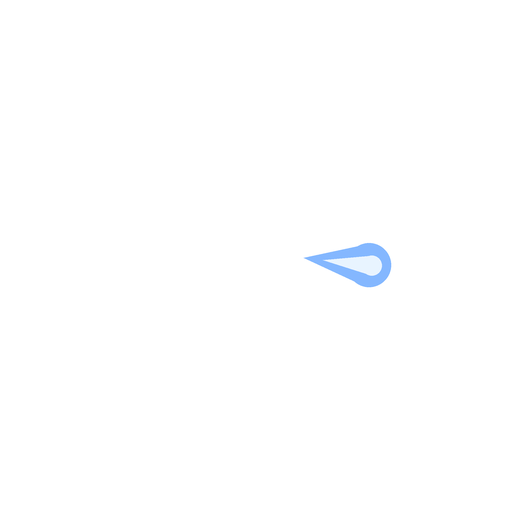
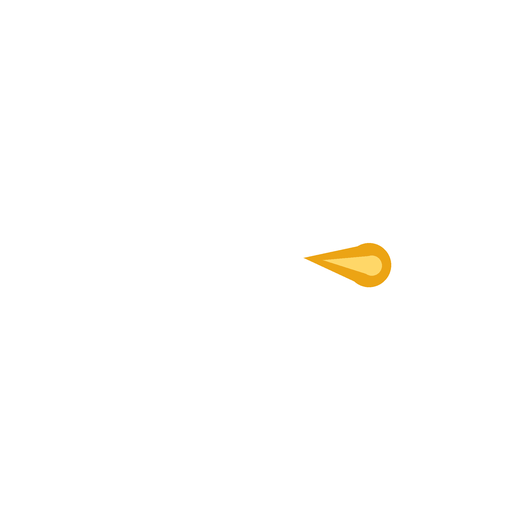
Standing Light smear in the guard's gold

Changed region(s): [[0.5938, 0.4688, 0.7812, 0.5625]]

diff --git a/design/models/sora/blender_workflow/make_smears.py b/design/models/sora/blender_workflow/make_smears.py
@@ -39,6 +39,10 @@ INNER = .30                               # the band's inner edge at its widest 
 STOP = .94                                # stop this far along the last segment, short of the blade
 OUTER_TONE = (122, 178, 255, 235)         # deeper outer band
 CORE_TONE = (232, 243, 255, 240)          # pale core
+# Guard-bash streak (Standing Light; Kvon: match the guard's colour): sampled from the guard in the approved drawing
+# (mid 234,156,0 / highlight 255,190,0), with a lighter gold core for the same two-tone look.
+GUARD_TONE = (234, 156, 0, 235)
+GUARD_CORE = (255, 214, 96, 240)
 
 
 def screen(p):
@@ -118,8 +122,8 @@ for i, fr in enumerate(track):
         pa = np.array(a_['lgrip_world']) + RIGHT*shift
         pb = np.array(fr['lgrip_world'])
         draw = ImageDraw.Draw(img, 'RGBA')
-        thrust(draw, screen(pa), screen(pb), 44, OUTER_TONE)
-        thrust(draw, screen(pa + (pb - pa)*.25), screen(pb), 20, CORE_TONE)
+        thrust(draw, screen(pa), screen(pb), 44, GUARD_TONE)
+        thrust(draw, screen(pa + (pb - pa)*.25), screen(pb), 20, GUARD_CORE)
         report.append({'drawing': i, 'from_drawing': i - back, 'style': 'thrust',
                        'length_px': round(float(np.linalg.norm(np.array(screen(pb)) - np.array(screen(pa))))/SS, 1)})
     elif back and i - back >= 0:

diff --git a/memory/Sora_Standing_Light.md b/memory/Sora_Standing_Light.md
@@ -21,3 +21,5 @@
 **Correction, October 27:** Kvon: "Bring the foot in a little further." v11: front foot idle -.07 (set) / -.10 (bash, recoil).
 
 **Smear, October 27:** Kvon: "First I want to add a small smear to the light attack as well." `atk_slight_v12` = the approved v11 poses (pixel-identical) with the bash drawing flagged `smear_style='thrust'`; make_smears.py draws a short tapered two-tone streak (44/20 px wide, ~77 px long at 512) from the guard's previous position to just behind it. Exported to `KingdomArena/assets/sora/attack_light_smear_384/`; `SMEARS` in sora_move_test.gd shows it on the bash drawing only (active frames). Verified in a recorded movie.
+
+**Correction, October 27:** Kvon: "I think the smear should match the color of the guard." The Light's streak now uses the guard's gold sampled from the approved drawing (outer 234,156,0 / core 255,214,96); the Medium's blade smears stay blue. Re-exported to `attack_light_smear_384/`.
